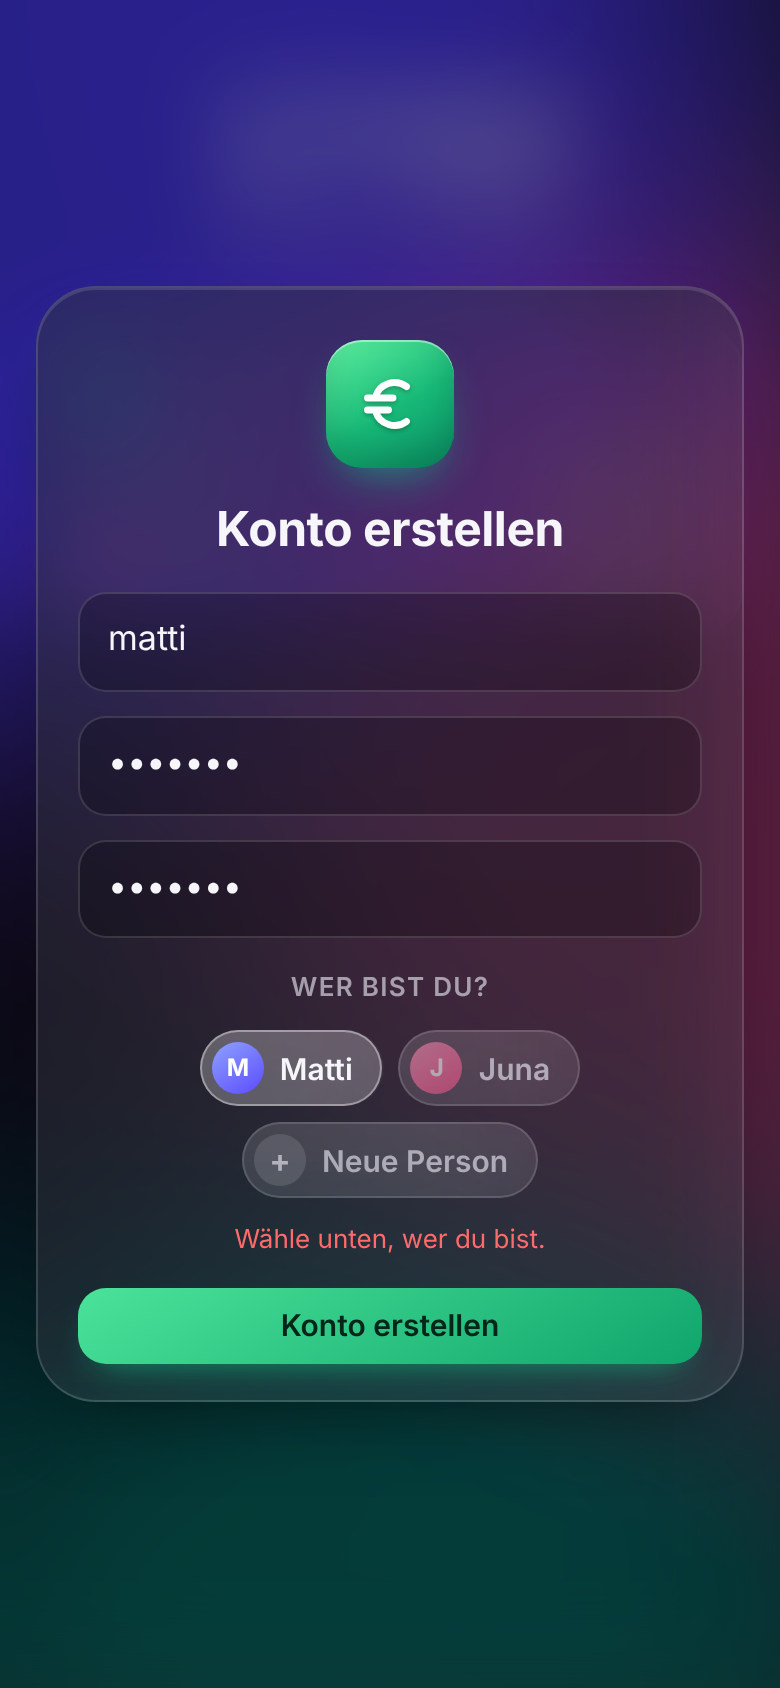
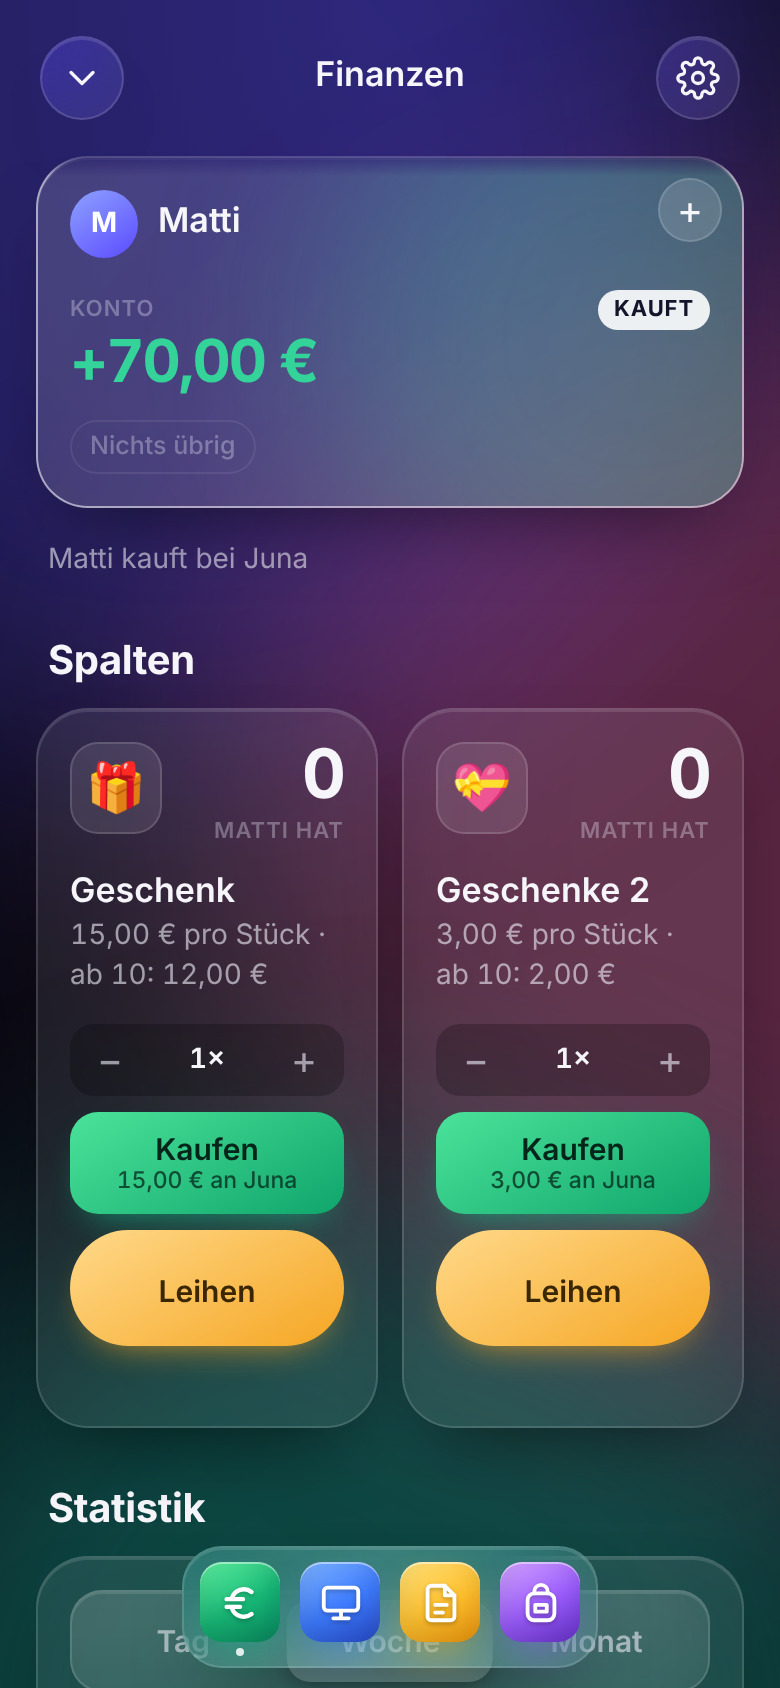
Angemeldet bleiben, Admin-Modus mit eingeschränkter Sicht, Geld abziehen
Claude-Session: https://claude.ai/code/session_01HP4ZGYUmZQyzGZFQVh1CYh

diff --git a/app.js b/app.js
@@ -92,10 +92,22 @@
   /* ---------- Login-Konten ---------- */
   const SKEY = 'finanzappox.session';
   let session = null;
-  try { session = JSON.parse(localStorage.getItem(SKEY) || 'null'); } catch { session = null; }
+  try { session = JSON.parse(sessionStorage.getItem(SKEY) || 'null'); } catch { session = null; }
+  if (!session) { try { session = JSON.parse(localStorage.getItem(SKEY) || 'null'); } catch { session = null; } }
   const account = () => (session && state.accounts.find((a) => a.id === session.accountId)) || null;
   // Die Person des angemeldeten Kontos (null, wenn nicht angemeldet oder Person gelöscht)
   const myPerson = () => { const a = account(); return a && person(a.personId) ? a.personId : null; };
+  // Admin sieht alles; das Passwort steht hier nur als Prüfsumme, nie im Klartext
[1 lines of base64/hex data omitted]
+  const isAdmin = () => !!(account() && session.admin);
+  // Ohne Admin ist die Sicht auf die eigene Person beschränkt
+  const restrictTo = () => (account() && !session.admin ? myPerson() : null);
+  function saveSession() {
+    try {
+      localStorage.removeItem(SKEY); sessionStorage.removeItem(SKEY);
+      if (session) (session.keep === false ? sessionStorage : localStorage).setItem(SKEY, JSON.stringify(session));
+    } catch { /* egal */ }
+  }
   async function hashPw(salt, pw) {
     const text = salt + ':' + pw;
     if (crypto && crypto.subtle) {
@@ -147,7 +159,7 @@
   function renderHome() {
     $('widget').innerHTML = `
       <div class="w-top"><span class="mini">${EURO_SVG}</span>Finanzen</div>
-      <div class="w-rows">${state.people.map((p) => {
+      <div class="w-rows">${state.people.filter((p) => !restrictTo() || p.id === restrictTo()).map((p) => {
         const bal = balance(p.id);
         return `
         <div class="w-row money">
@@ -164,11 +176,11 @@
         <button class="pchip glass ${p.id === on ? 'on' : ''}" data-action="${action}" data-k="${p.id}">${avatar(p.id, 'sm')}<span>${esc(who(p.id))}</span></button>`).join('')}
       </div>`;
     $('hero').innerHTML = `
-      <div class="accts">${state.people.map((p) => {
+      <div class="accts">${state.people.filter((p) => !restrictTo() || p.id === restrictTo()).map((p) => {
         const bal = balance(p.id);
         return `
         <article class="acct glass ${tone(bal)} ${p.id === b ? 'me' : ''}" ${fixed ? '' : 'data-action="buyer" role="button" tabindex="0"'} data-k="${p.id}" aria-pressed="${p.id === b}">
-          <button class="addcash" data-action="cash" data-k="${p.id}" aria-label="Geld für ${esc(who(p.id))} hinzufügen">+</button>
+${!myPerson() || isAdmin() || p.id === myPerson() ? `<button class="addcash" data-action="cash" data-k="${p.id}" aria-label="Geld für ${esc(who(p.id))} ändern">+</button>` : ''}
           <div class="pair">${avatar(p.id)}<span>${esc(who(p.id))}</span></div>
           <div class="label">Konto${p.id === b ? '<span class="tag">kauft</span>' : ''}</div>
           <div class="amount">${amount(bal)}</div>
@@ -189,11 +201,14 @@
     if (!person(cashFor)) return '';
     return `
       <div class="cashform glass">
-        <label for="cash-amount">Geld für ${esc(who(cashFor))} hinzufügen</label>
+        <label for="cash-amount">Geld für ${esc(who(cashFor))}</label>
         <div class="cashrow">
           <input id="cash-amount" inputmode="decimal" placeholder="z. B. 100" aria-label="Betrag in Euro">
           <span class="unit">€</span>
-          <button class="paybtn" data-action="cash-add">Hinzufügen</button>
+        </div>
+        <div class="cashbtns">
+          <button class="paybtn" data-action="cash-add">+ Hinzufügen</button>
+          <button class="paybtn out" data-action="cash-sub">− Abziehen</button>
         </div>
       </div>`;
   }
@@ -266,7 +281,7 @@
 
   function renderStats() {
     const m = state.statMode, { start, end, label } = statRange();
-    const rows = state.people.map((p) => {
+    const rows = state.people.filter((p) => !restrictTo() || p.id === restrictTo()).map((p) => {
       let total = 0;
       const counts = {};
       state.tx.forEach((t) => {
@@ -306,15 +321,18 @@
   function renderHistory() {
     const byId = Object.fromEntries(state.items.map((it) => [it.id, it]));
     const fmt = new Intl.DateTimeFormat('de-DE', { day: '2-digit', month: 'short', hour: '2-digit', minute: '2-digit' });
-    const rows = state.tx.slice().reverse().filter((t) => person(t.from) && (t.type === 'cash' || (byId[t.itemId] && person(t.to)))).slice(0, 60).map((t) => {
+    const rows = state.tx.slice().reverse().filter((t) => person(t.from) && (!restrictTo() || t.from === restrictTo() || t.to === restrictTo()) && (t.type === 'cash' || (byId[t.itemId] && person(t.to)))).slice(0, 60).map((t) => {
       const P = esc(who(t.from)), R = esc(who(t.to)), sum = money(t.qty * t.price);
-      if (t.type === 'cash') return `
+      if (t.type === 'cash') {
+        const out = t.price < 0, amt = money(Math.abs(t.qty * t.price));
+        return `
       <div class="row" data-tx="${t.id}">
         <div class="emoji">💶</div>
-        <div class="txt"><b>${P} zahlt ${sum} ein</b><small>${fmt.format(new Date(t.ts))}</small></div>
-        <div class="val pos">+${sum}</div>
+        <div class="txt"><b>${P} ${out ? `entnimmt ${amt}` : `zahlt ${amt} ein`}</b><small>${fmt.format(new Date(t.ts))}</small></div>
+        <div class="val ${out ? 'neg' : 'pos'}">${out ? '−' : '+'}${amt}</div>
         <button class="x" data-action="undo" aria-label="Eintrag löschen">${X_SVG}</button>
       </div>`;
+      }
       const it = byId[t.itemId];
       const text = t.type === 'buy' ? `${P} kauft ${t.qty}× ${esc(it.name)} bei ${R}`
         : t.type === 'loan' ? `${P} leiht ${t.qty}× ${esc(it.name)} bei ${R}`
@@ -340,6 +358,7 @@
   }
 
   function renderSettings() {
+    const admin = isAdmin();
     $('settings').innerHTML = `
       ${account() ? `
       <div class="group-title">Konto</div>
@@ -352,6 +371,20 @@
         <button class="linkbtn" data-action="install">Zum Home-Bildschirm hinzufügen</button>
         ${installOpen ? `<p class="hint inpad">${esc(installText())}</p>` : ''}
       </div>
+      <div class="group-title">Admin</div>
+      <div class="group">
+        ${admin ? `
+        <div class="field"><label>Status</label><div class="acc-as">Admin-Modus aktiv – du siehst alles</div></div>
+        <button class="linkbtn danger" data-action="admin-exit">Admin verlassen</button>` : `
+        <button class="linkbtn" data-action="admin-open">Admin werden</button>
+        ${adminOpen ? `
+        <div class="codebox">
+          <input id="admin-pass" type="password" placeholder="Admin-Passwort" autocomplete="off" aria-label="Admin-Passwort">
+          ${adminErr ? `<p class="hint err">${esc(adminErr)}</p>` : ''}
+          <button class="btn pay" data-action="admin-submit">Bestätigen</button>
+        </div>` : ''}`}
+      </div>
+      ${admin ? `
       <div class="group-title">Personen</div>
       <div class="group">
         ${state.people.map((p, i) => `
@@ -386,9 +419,10 @@
         <div class="field bulk"><label>Rabatt</label><span class="unit">ab</span><input class="num tiny" data-field="bulkQty" inputmode="numeric" value="${it.bulkQty || ''}" placeholder="–" aria-label="Rabatt ab Stück"><span class="unit">Stück, je</span><input class="num" data-field="bulkPrice" inputmode="decimal" value="${it.bulkPrice != null ? String(it.bulkPrice).replace('.', ',') : ''}" placeholder="–" aria-label="Rabattpreis"><span class="unit">€</span></div>
       </div>`).join('')}
       <div class="group"><button class="linkbtn" data-action="add-item">+ Neue Spalte hinzufügen</button></div>
-      <p class="hint">Jede Spalte hat einen eigenen Namen und Preis. Beim Löschen einer Spalte werden auch ihre Einträge entfernt.</p>
+      <p class="hint">Jede Spalte hat einen eigenen Namen und Preis. Beim Löschen einer Spalte werden auch ihre Einträge entfernt.</p>` : ''}
       <div class="group-title">Daten</div>
       <p class="hint" id="sync-hint" style="margin-bottom:8px">${esc(syncHint())}</p>
+      ${admin ? `
       <div class="group">
         <button class="linkbtn" data-action="data-save">Save · Daten als Code sichern</button>
         ${dataOpen === 'save' ? `
@@ -407,7 +441,7 @@
         </div>` : ''}
         <button class="linkbtn danger" data-action="reset">${confirmReset ? 'Wirklich zurücksetzen? Nochmal tippen' : 'Alles zurücksetzen'}</button>
       </div>
-      <p class="hint">Setzt Konten, Inventar und Verlauf auf null. Personen, Spalten und Notizen bleiben erhalten.</p>`;
+      <p class="hint">Setzt Konten, Inventar und Verlauf auf null. Personen, Spalten und Notizen bleiben erhalten.</p>` : '<p class="hint">Personen, Spalten, Sicherung und Zurücksetzen verwaltet nur der Admin.</p>'}`;
   }
 
   /* ---------- Notes ---------- */
@@ -511,7 +545,7 @@
 
   /* ---------- Inventar ---------- */
   const BAG_SVG = '<svg viewBox="0 0 24 24"><path d="M8.5 7V6a3.5 3.5 0 0 1 7 0v1"/><rect x="5" y="7" width="14" height="14" rx="3.5"/><path d="M9 13h6v3.5H9z"/></svg>';
-  const invOwner = () => (person(invPerson) ? invPerson : buyer());
+  const invOwner = () => restrictTo() || (person(invPerson) ? invPerson : buyer());
   function renderInventory() {
     const o = invOwner();
     const many = state.people.length > 2, mp = myPerson();
@@ -526,10 +560,11 @@
           <button class="back" data-action="inv-ret">Zurückgeben<small>${debtUnits(it.id, o, sl.id) > 0 ? 'war geliehen · Schuld entfällt' : `+${money(it.price)} von ${esc(who(sl.id))}`}</small></button>` : '<small class="viewonly">Nur ansehen</small>'}
         </article>`).join('')).join('');
     $('inv-body').innerHTML = `
+      ${restrictTo() ? '' : `
       <div class="seg-label">Wessen Inventar?</div>
       <div class="pick">${state.people.map((p) => `
         <button class="pchip glass ${p.id === o ? 'on' : ''}" data-action="inv-person" data-k="${p.id}">${avatar(p.id, 'sm')}<span>${esc(who(p.id))}</span></button>`).join('')}
-      </div>
+      </div>`}
       ${slots ? `<div class="inv-grid">${slots}</div>` : `
       <div class="soon">
         <span class="app-icon inv big">${BAG_SVG}</span>
@@ -541,6 +576,7 @@
   /* ---------- Login-Bildschirm ---------- */
   let loginMode = 'login', loginErr = '', regPerson = null, loginBusy = false;
   let installEvt = null, installOpen = false;
+  let adminOpen = false, adminErr = '';
   window.addEventListener('beforeinstallprompt', (e) => { e.preventDefault(); installEvt = e; });
   function installText() {
     const standalone = (window.matchMedia && matchMedia('(display-mode: standalone)').matches) || navigator.standalone;
@@ -552,7 +588,7 @@
   }
   function renderLogin() {
     const reg = loginMode === 'register' || !state.accounts.length;
-    const keep = { u: $('login-user') ? $('login-user').value : '', p: $('login-pass') ? $('login-pass').value : '', p2: $('login-pass2') ? $('login-pass2').value : '' };
+    const keep = { u: $('login-user') ? $('login-user').value : '', p: $('login-pass') ? $('login-pass').value : '', p2: $('login-pass2') ? $('login-pass2').value : '', r: $('login-remember') ? $('login-remember').checked : true };
     const free = state.people.filter((p) => !state.accounts.some((a) => a.personId === p.id));
     $('login').innerHTML = `
       <div class="lock-card glass">
@@ -567,6 +603,7 @@
           <button class="pchip glass ${regPerson === p.id ? 'on' : ''}" data-action="login-person" data-k="${p.id}">${avatar(p.id, 'sm')}<span>${esc(who(p.id))}</span></button>`).join('')}
           <button class="pchip glass ${regPerson === 'new' ? 'on' : ''}" data-action="login-person" data-k="new"><span class="plus-sm">+</span><span>Neue Person</span></button>
         </div>` : ''}
+        <label class="remember"><input type="checkbox" id="login-remember" checked> Angemeldet bleiben</label>
         ${loginErr ? `<p class="hint err">${esc(loginErr)}</p>` : ''}
         <button class="btn pay" data-action="login-submit">${reg ? 'Konto erstellen' : 'Anmelden'}</button>
         ${state.accounts.length ? `<button class="linkbtn center" data-action="login-toggle">${reg ? 'Ich habe schon ein Konto' : 'Neues Konto erstellen'}</button>` : ''}
@@ -574,6 +611,7 @@
     if (keep.u) $('login-user').value = keep.u;
     if (keep.p) $('login-pass').value = keep.p;
     if (keep.p2 && $('login-pass2')) $('login-pass2').value = keep.p2;
+    $('login-remember').checked = keep.r;
   }
   function updateLock() {
     const locked = !account();
@@ -657,7 +695,7 @@
     if (v !== 'manager') closeSheet();
     if (v !== 'notes' && editing) closeNote();
   }
-  function openSheet() { pickerFor = confirmDel = confirmDelPerson = dataOpen = null; loadError = ''; installOpen = false; confirmReset = false; renderSettings(); document.body.classList.add('sheet-open'); $('sheet').setAttribute('aria-hidden', 'false'); }
+  function openSheet() { pickerFor = confirmDel = confirmDelPerson = dataOpen = null; loadError = ''; installOpen = false; adminOpen = false; adminErr = ''; confirmReset = false; renderSettings(); document.body.classList.add('sheet-open'); $('sheet').setAttribute('aria-hidden', 'false'); }
   function closeSheet() { document.activeElement && document.activeElement.blur(); document.body.classList.remove('sheet-open'); $('sheet').setAttribute('aria-hidden', 'true'); }
 
   function book(itemId, type) {
@@ -685,6 +723,15 @@
       state.tx.push({ id: uid(), itemId: id, from: o, to: sl, type, qty: 1, price, ts: Date.now() });
       commit();
     }, 260);
+  }
+
+  // Geld auf das eigene Konto einzahlen (+1) oder davon abziehen (−1)
+  function bookCash(sign) {
+    const i = $('cash-amount'), v = parseFloat((i && i.value || '').replace(',', '.'));
+    if (!(v > 0) || !person(cashFor)) { if (i) i.focus(); return; }
+    state.tx.push({ id: uid(), itemId: null, from: cashFor, to: cashFor, type: 'cash', qty: 1, price: sign * round2(v), ts: Date.now() });
+    cashFor = null;
+    commit();
   }
 
   const actions = {
@@ -728,13 +775,8 @@
       const i = $('cash-amount');
       if (i) { i.scrollIntoView({ block: 'center' }); i.focus(); }
     },
-    'cash-add': () => {
-      const i = $('cash-amount'), v = parseFloat((i && i.value || '').replace(',', '.'));
-      if (!(v > 0) || !person(cashFor)) { if (i) i.focus(); return; }
-      state.tx.push({ id: uid(), itemId: null, from: cashFor, to: cashFor, type: 'cash', qty: 1, price: round2(v), ts: Date.now() });
-      cashFor = null;
-      commit();
-    },
+    'cash-add': () => bookCash(1),
+    'cash-sub': () => bookCash(-1),
     buy: (el, id) => book(id, 'buy'),
     loan: (el, id) => book(id, 'loan'),
     'debt-pay': (el) => {
@@ -774,6 +816,26 @@
       state.tx = state.tx.filter((t) => t.itemId !== id);
       confirmDel = null; commit(); renderSettings();
     },
+    'admin-open': () => {
+      adminOpen = !adminOpen; adminErr = '';
+      renderSettings();
+      const i = $('admin-pass');
+      if (i) { i.scrollIntoView({ block: 'center' }); i.focus(); }
+    },
+    'admin-submit': async () => {
+      const i = $('admin-pass');
+      if ((await hashPw('fx1', i ? i.value : '')) !== ADMIN_HASH) {
+        adminErr = 'Falsches Admin-Passwort.';
+        renderSettings();
+        const x = $('admin-pass');
+        if (x) x.focus();
+        return;
+      }
+      session.admin = true; saveSession();
+      adminOpen = false; adminErr = '';
+      renderMain(); renderSettings();
+    },
+    'admin-exit': () => { if (session) { session.admin = false; saveSession(); } renderMain(); renderSettings(); },
     install: () => { if (installEvt) { installEvt.prompt(); return; } installOpen = !installOpen; renderSettings(); },
     'login-person': (el) => { regPerson = el.dataset.k; renderLogin(); },
     'login-toggle': () => { loginMode = loginMode === 'register' ? 'login' : 'register'; loginErr = ''; renderLogin(); },
@@ -796,19 +858,19 @@
           const salt = uid();
           const a = { id: uid(), user: u, salt, hash: await hashPw(salt, pw), personId: pid };
           state.accounts.push(a);
-          session = { accountId: a.id, user: a.user };
+          session = { accountId: a.id, user: a.user, keep: $('login-remember').checked };
         } else {
           const a = state.accounts.find((x) => x.user.toLowerCase() === u.toLowerCase());
           if (!a || (await hashPw(a.salt, pw)) !== a.hash) return fail('Username oder Passwort ist falsch.');
-          session = { accountId: a.id, user: a.user };
+          session = { accountId: a.id, user: a.user, keep: $('login-remember').checked };
         }
-        try { localStorage.setItem(SKEY, JSON.stringify(session)); } catch { /* egal */ }
+        saveSession();
         if (myPerson()) state.buyer = myPerson();
         loginErr = ''; regPerson = null; loginMode = 'login';
         commit(); updateLock();
       } finally { loginBusy = false; }
     },
-    logout: () => { session = null; try { localStorage.removeItem(SKEY); } catch { /* egal */ } closeSheet(); loginErr = ''; renderMain(); updateLock(); },
+    logout: () => { session = null; saveSession(); closeSheet(); loginErr = ''; renderMain(); updateLock(); },
     'stat-mode': (el) => { state.statMode = el.dataset.k; statOffset = 0; save(); renderStats(); },
     'stat-prev': () => { statOffset--; renderStats(); },
     'stat-next': () => { if (statOffset < 0) { statOffset++; renderStats(); } },
@@ -881,7 +943,11 @@
     } else return;
     commit();
   });
-  $('settings').addEventListener('keydown', (e) => { if (e.key === 'Enter' && e.target.tagName !== 'TEXTAREA') e.target.blur(); });
+  $('settings').addEventListener('keydown', (e) => {
+    if (e.key !== 'Enter' || e.target.tagName === 'TEXTAREA') return;
+    if (e.target.id === 'admin-pass') { actions['admin-submit'](); return; }
+    e.target.blur();
+  });
   $('settings').addEventListener('focusout', (e) => {
     const f = e.target.dataset.field;
     if (f !== 'price' && f !== 'bulkQty' && f !== 'bulkPrice') return;

diff --git a/styles.css b/styles.css
@@ -440,3 +440,12 @@ body.locked .dock { display: none; }
 .acc-as { flex: 1; padding: 12px 0; font-size: 16px; white-space: nowrap; overflow: hidden; text-overflow: ellipsis; }
 .hint.inpad { padding: 0 14px 12px; margin: 0; }
 .slot .viewonly { margin-top: 10px; color: var(--faint); font-size: 13px; }
+
+/* ---------- Admin, Merken, Geld abziehen ---------- */
+.accts > :only-child { grid-column: 1 / -1; }
+.cashbtns { display: grid; grid-template-columns: 1fr 1fr; gap: 10px; }
+.paybtn.out { background: linear-gradient(150deg, #ffb3a7, #e2504f); color: #3a0a0a; box-shadow: 0 8px 18px -10px rgba(226, 80, 79, .9); }
+.remember { display: flex; align-items: center; justify-content: center; gap: 8px; width: 100%; color: var(--muted); font-size: 15px; user-select: none; -webkit-user-select: none; }
+.remember input { width: 18px; height: 18px; accent-color: #17b877; }
+.codebox input { width: 100%; background: rgba(0, 0, 0, .25); border: 1px solid var(--stroke); border-radius: 12px; padding: 11px 12px; font-size: 16px; color: var(--text); outline: 0; user-select: text; -webkit-user-select: text; }
+.codebox input:focus { border-color: rgba(255, 255, 255, .45); }
